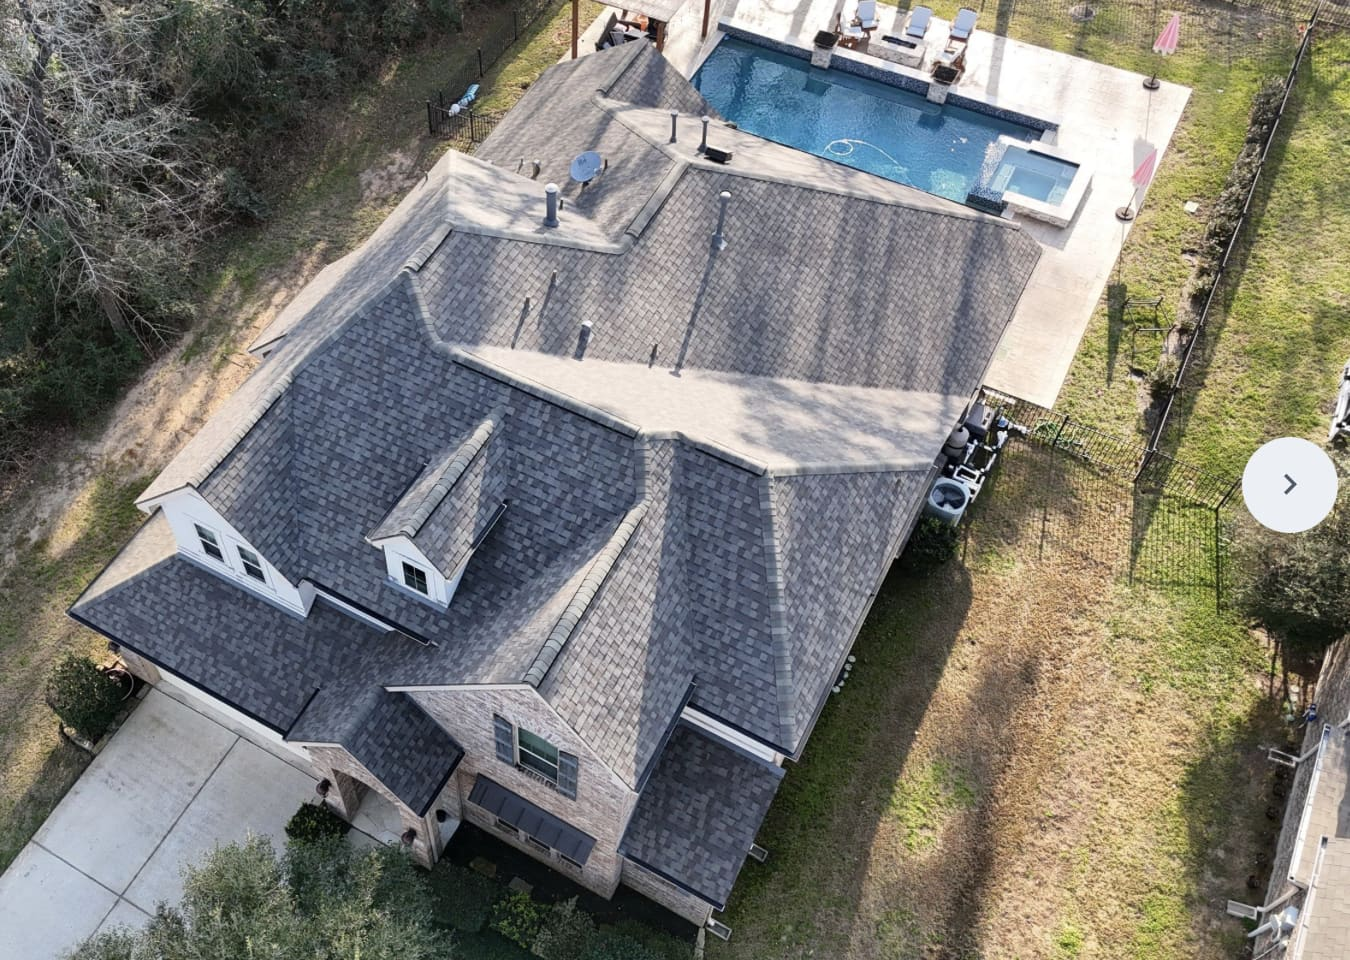
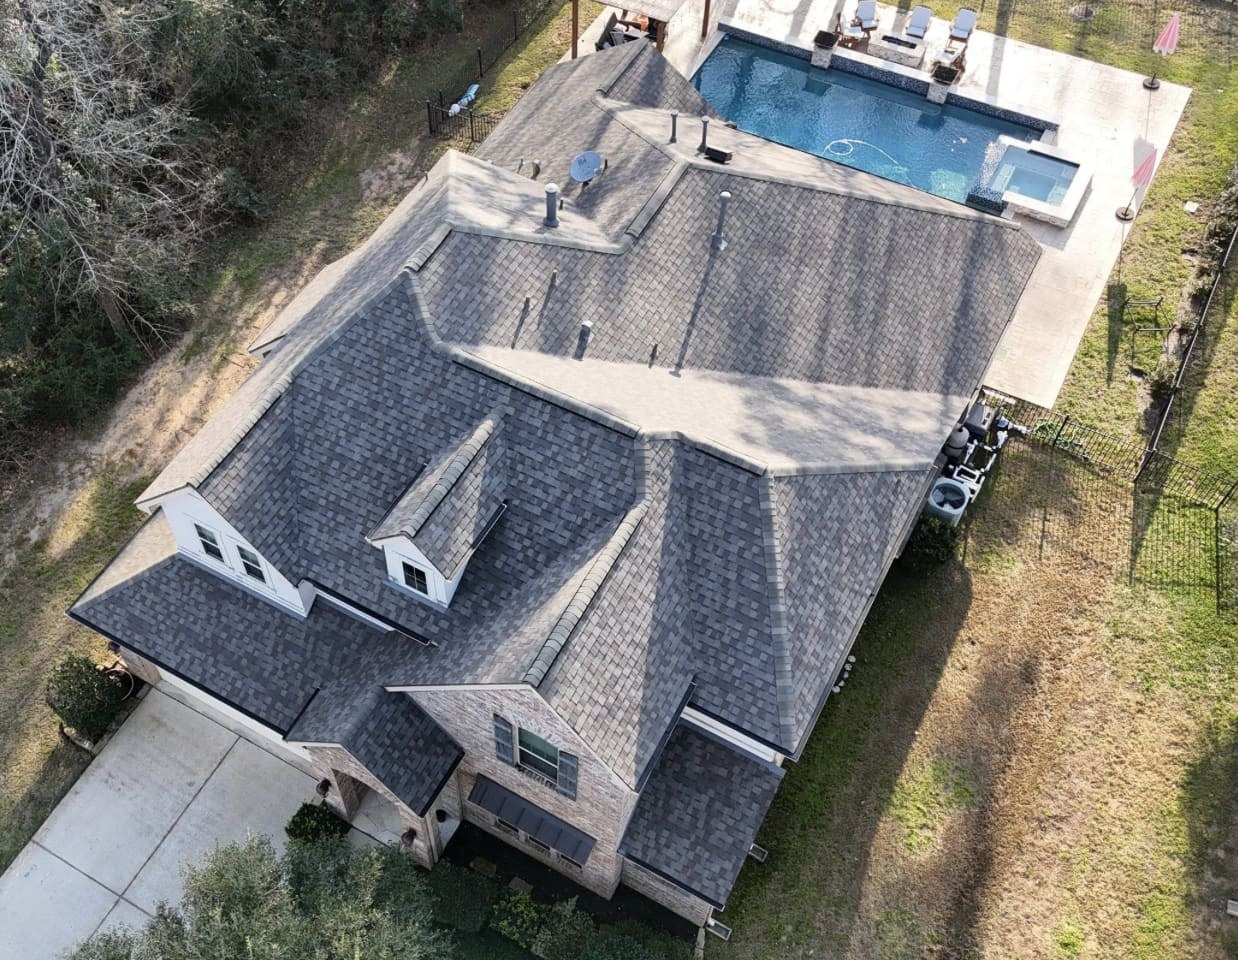
Crop the carousel arrow out of the Humble photo (#48)
The arrow's leftmost pixel measured at x~1244 of 1350, so the cut is at
x = 1238 — 112px, 8.3% of the width, with 6px of margin. 1350x960 -> 1238x960.
Nothing of the subject was lost; the removed strip is empty lawn.

Cropped rather than painted out on purpose: cloning grass over the arrow would
alter the content of a photograph presented as a record of real work, and
removing a strip of frame does not.

Done in place, so this is now the only version of that file. The photo is still
referenced by no page.

Claude-Session: https://claude.ai/code/session_018fSkAxvstUbvmj7BonCNN5

diff --git a/docs/research-facts.md b/docs/research-facts.md
@@ -1884,7 +1884,24 @@ Two things worth knowing about the file he kept:
    appear anywhere until something points at it.
 2. **It has a website carousel arrow baked into the right edge** — a white
    circle with a chevron, at roughly 92% width, mid-height. It was screenshotted
-   from a page rather than saved from the original. Cropping the right ~10%
-   removes it cleanly, the same fix applied to the aerial patio-cover photo in
-   addendum 3. Not done unprompted, because the owner asked for the file kept,
-   not changed.
+   from a page rather than saved from the original. Cropped out on 2026-11-03
+   at the owner's instruction — see below.
+
+### Sheet 9 addendum 5b — carousel arrow cropped out (2026-11-03)
+
+Owner: "Definitely crop that photo so it doesn't show the carousel arrow."
+
+The arrow's leftmost pixel was measured at x≈1244 of 1350, so the image was cut
+at **x = 1238** — 112px, 8.3% of the width, with 6px of margin. 1350×960 →
+1238×960.
+
+Nothing of the subject was lost: the house, pool, driveway and fence line all
+sit left of the cut, and the removed strip is empty lawn. Verified by eye after
+the crop.
+
+Cropping rather than painting the arrow out was deliberate. Cloning grass over
+it would be altering the content of a photograph presented as a record of real
+work; removing a strip of frame is not.
+
+The file is still unreferenced — it is now clean and available, but nothing
+points at it.
